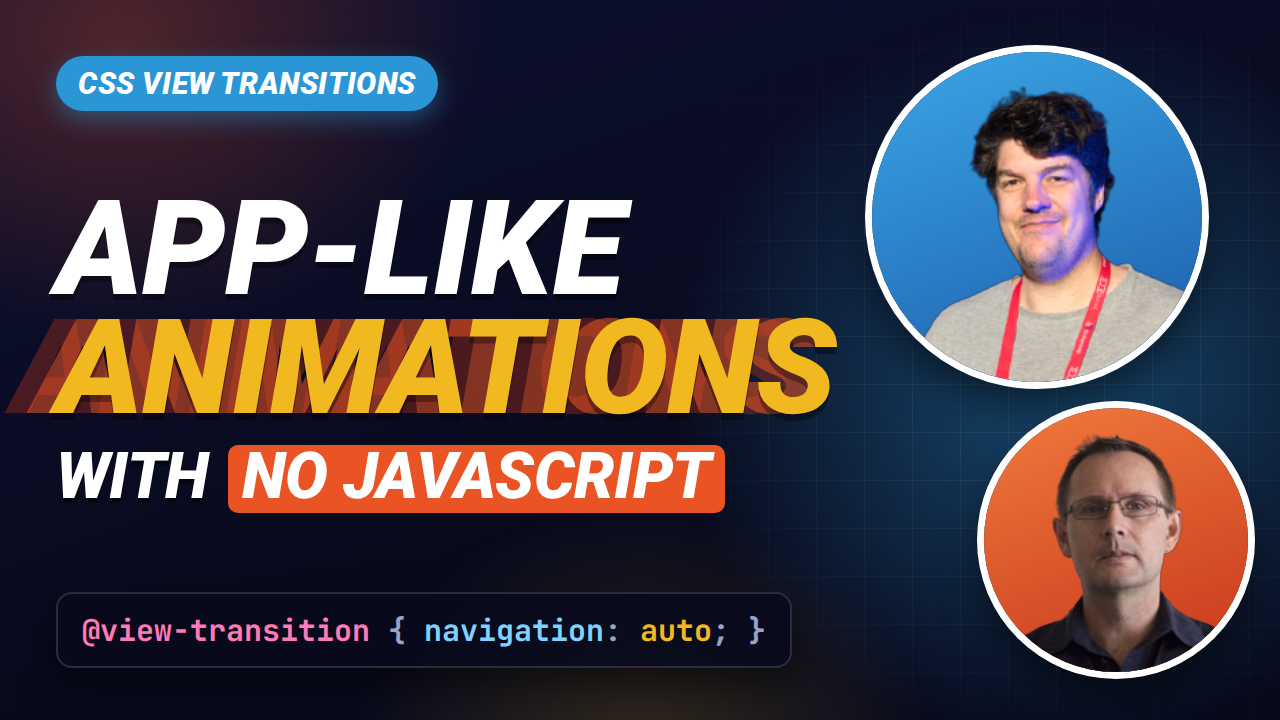
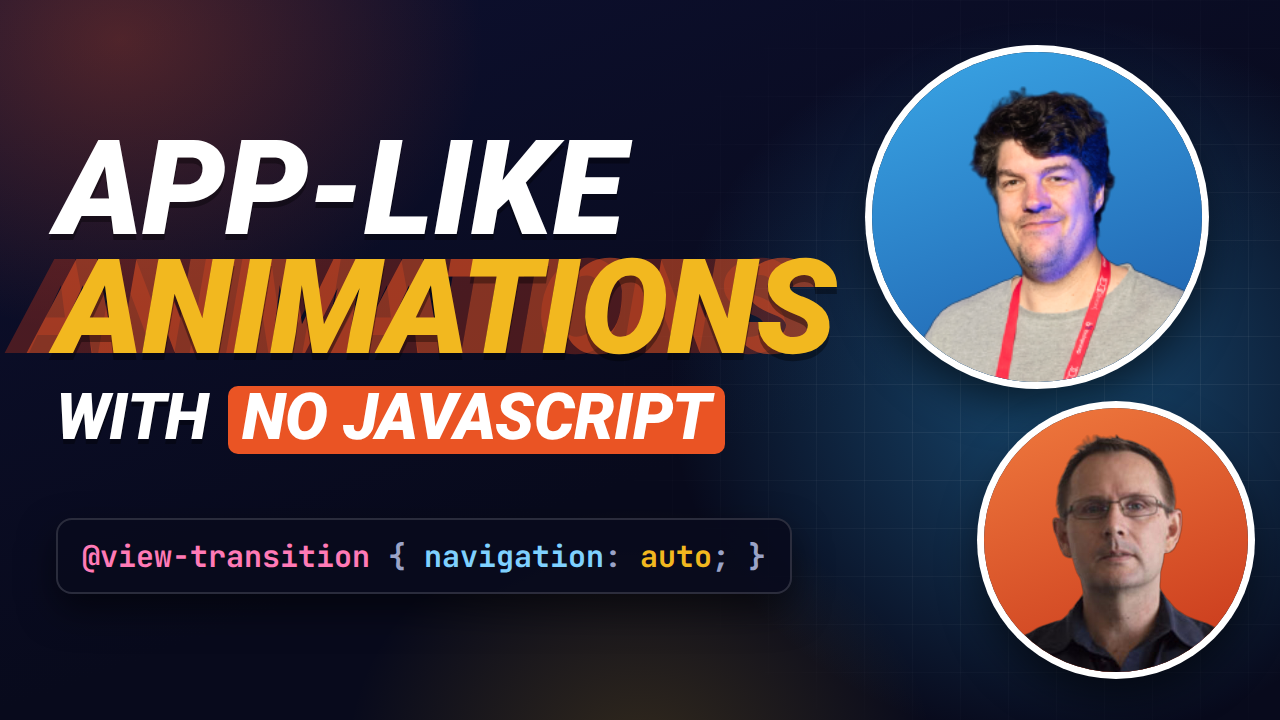
Thumbnail: remove CSS View Transitions label
Claude-Session: https://claude.ai/code/session_0164t38uxhJ4Eb21npfFbzTE

diff --git a/thumbnails/spa-without-javascript/thumbnail.html b/thumbnails/spa-without-javascript/thumbnail.html
@@ -88,21 +88,8 @@
     display: flex;
     flex-direction: column;
     align-items: flex-start;
-    justify-content: space-between;
-  }
-
-  .pill {
-    display: inline-flex;
-    align-items: center;
-    padding: 10px 22px;
-    border-radius: 999px;
-    background: var(--blue);
-    font-weight: 900;
-    font-style: italic;
-    font-size: 30px;
-    letter-spacing: .02em;
-    text-transform: uppercase;
-    box-shadow: 0 8px 24px rgba(43,150,214,.45);
+    justify-content: center;
+    gap: 64px;
   }
 
   .headline {
@@ -180,8 +167,6 @@
     <div class="avatar justin"><img src="assets/justin-slack.png" alt="Justin Slack"></div>
 
     <div class="copy">
-      <div class="pill">CSS View Transitions</div>
-
       <h1 class="headline">
         <span class="l1">App-like</span>
         <span class="l2">
